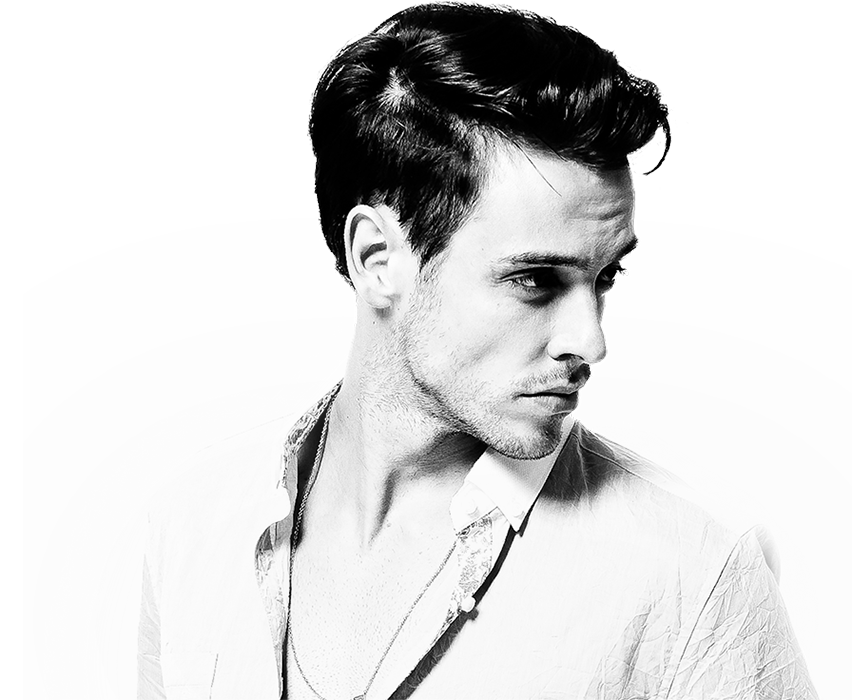
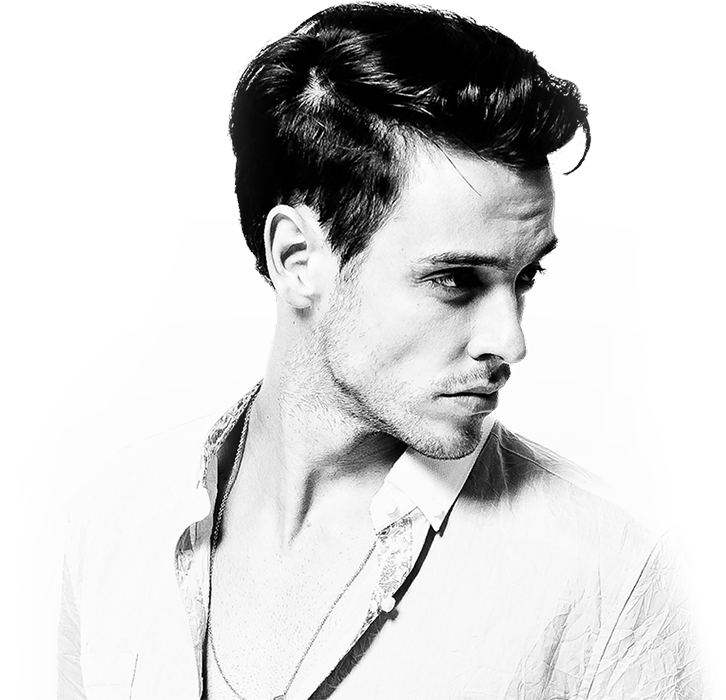
header ready

Changed region(s): [[0.2424, 0.0, 0.8182, 1.0], [0.697, 0.78, 0.9697, 1.0], [0.6364, 0.03, 0.697, 0.06]]

diff --git a/sass/layout/_hero.scss b/sass/layout/_hero.scss
@@ -1,0 +1,61 @@
+        @import "../abstract/_variables.scss";
+        .hero {
+            min-height: 35rem;
+            padding: 1rem 0 0 0;
+            background-color: $background-light;
+            display: flex;
+            flex-direction: row;
+            &__image {
+                display: flex;
+                align-content: flex-end;
+                align-items: flex-end;
+                overflow: hidden;
+                flex: 1;
+                img {
+                    max-width: 59rem;
+                    width: 100%;
+                    align-content: flex-end;
+                    align-items: flex-end;
+                }
+            }
+            &__text {
+                display: flex;
+                flex: 1;
+                padding-top: 6rem;
+                &__box {
+                    margin: auto;
+                    max-width: 37rem;
+                    padding-right: 18rem;
+                    p {
+                        line-height: 2.5rem;
+                    }
+                    &__button {
+                        margin: 4rem auto;
+                    }
+                }
+            }
+            @media (max-width: $breakpoint-large) {
+                .hero {
+                    &__text {
+                        padding: 0;
+                        &__box {
+                            padding: 0rem;
+                        }
+                    }
+                }
+            }
+            @media (max-width: $breakpoint-medium) {
+                .hero {
+                    &__image {
+                        display: none;
+                    }
+                    &__text {
+                        margin-bottom: 5rem;
+                        &__box {
+                            padding-top: 2rem;
+                            margin: 0 auto;
+                        }
+                    }
+                }
+            }
+        }

diff --git a/src/index.html b/src/index.html
@@ -11,7 +11,7 @@
     <div class="header">
         <div class="container">
             <div class="header__logo">
-                <img src="img/logo.png" alt="logo">
+                <img src="img/logo.png" alt="logo" class="animate__from__bottom">
             </div>
         </div>
     </div>
@@ -19,20 +19,24 @@
 
     <!-- start of hero -->
     <div class="hero">
-        <div class="hero__image">
-            <img src="img/model.png" alt="model">
-        </div>
-        <div class="hero__text">
-            <div>
-                <h1>
-                    Holičství
-                    <br> Club
-                    <br> Barbershop
-                </h1>
-                <p></p>
+        <div class="container">
+            <div class="hero__image animate__from__bottom">
+                <img src="img/model.png" alt="model">
             </div>
-            <div class="btn">
-                <a href="#/obejdnat_se"></a>
+            <div class="hero__text">
+                <div class="hero__text__box animate__from__bottom">
+                    <h1>
+                        Holičství
+                        <br> Club
+                        <br> Barbershop
+                    </h1>
+                    <p class="text__center"> Privátní Club - holičství s vlastní komunitou. Přijď vyzkoušet a přidej se i ty.</p>
+                    <div class="btn btn__center hero__text__box__button animate__from__bottom">
+                        <a href="#/obejdnat_se">
+                            <p> Objednat se</p>
+                        </a>
+                    </div>
+                </div>
             </div>
         </div>
     </div>

diff --git a/sass/base/_typography.scss b/sass/base/_typography.scss
@@ -1,11 +1,25 @@
-@import url('https://fonts.googleapis.com/css?family=Montserrat:300,600');
+@import url('https://fonts.googleapis.com/css?family=Montserrat:400,700');
+@import "../abstract/_variables.scss";
 body {
     font-family: 'Montserrat', sans-serif;
-    font-weight: 300;
+    font-weight: 400;
 }
 
 h1 {
-    font-weight: 600;
-    font-size: 3.5rem;
+    font-weight: 700;
+    font-size: 4.2rem;
+    text-align: center;
+    color: $color-text-darker;
+    @media (max-width: $breakpoint-extra-small) {
+        font-size: 3rem;
+    }
+}
+
+p {
+    font-weight: 400;
+    font-size: 1.7rem;
+}
+
+.text__center {
     text-align: center;
 }

diff --git a/sass/components/_button.scss b/sass/components/_button.scss
@@ -1,0 +1,19 @@
+@import "../abstract/_variables.scss";
+.btn {
+    background-color: $color-primary;
+    max-width: 15rem;
+    min-height: 3.3rem;
+    display: flex;
+    border-radius: 1.4rem;
+    a {
+        margin: auto;
+        text-decoration: none;
+        p {
+            font-size: 1.5rem;
+            color: $color-text-invert;
+        }
+    }
+    &__center {
+        margin: auto;
+    }
+}

diff --git a/sass/base/_animations.scss b/sass/base/_animations.scss
@@ -1,0 +1,19 @@
+.animate__from__bottom {
+    animation-name: appearFromBottom;
+    animation-timing-function: ease-out;
+    animation-duration: 1.6s;
+}
+
+@keyframes appearFromBottom {
+    0% {
+        opacity: 0;
+    }
+    50% {
+        opacity: 0;
+        transform: translateY(1rem);
+    }
+    100% {
+        transform: translate(0);
+        opacity: 1;
+    }
+}

diff --git a/sass/layout/_grid.scss b/sass/layout/_grid.scss
@@ -1,9 +1,12 @@
 html {
-    font-size: 62.5%; // changes the ratio of the site 62,5% => 10px = 1rem
+    font-size: 62.5%; // changes the ratio of the site 62.5% => 10px = 1rem
 }
 
 .container {
     max-width: 123rem; // 10px = 1rem
+    width: 100%;
     margin: 0 auto;
     padding: 0 1.5rem;
+    display: flex;
+    flex-wrap: wrap;
 }

diff --git a/sass/abstract/_variables.scss b/sass/abstract/_variables.scss
@@ -2,6 +2,8 @@
 $background-light: #e8e8e8;
 $color-text-invert: white;
 $color-footer-background: black;
+$color-primary: #410000;
+$color-text-darker: #222222;
 
 //breakpoints
 $breakpoint-large: 1250px;

diff --git a/sass/layout/_header.scss b/sass/layout/_header.scss
@@ -1,7 +1,7 @@
 @import "../abstract/_variables.scss";
 .header {
-    width: 100%;
     height: 7.5rem;
+    display: flex;
     background-color: $background-light;
     &__logo {
         width: 9.3rem;
